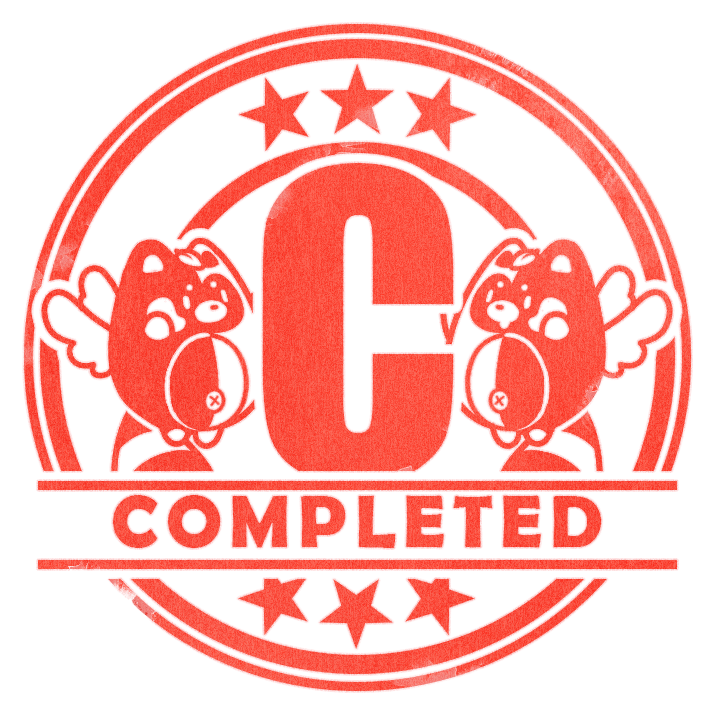
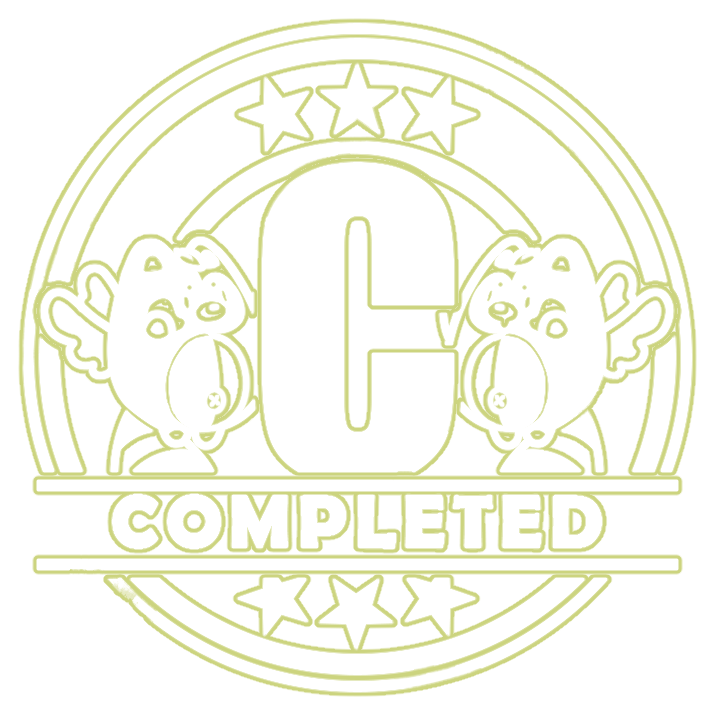
Fixed asset

diff --git a/Journal-generator/style.css b/Journal-generator/style.css
@@ -425,7 +425,4 @@ body {
   transform: translate(-50%, -50%);
   z-index: 20;
   pointer-events: none;
-
-  /* 原有滤镜 */
-  filter: brightness(0) invert(1);
 }
